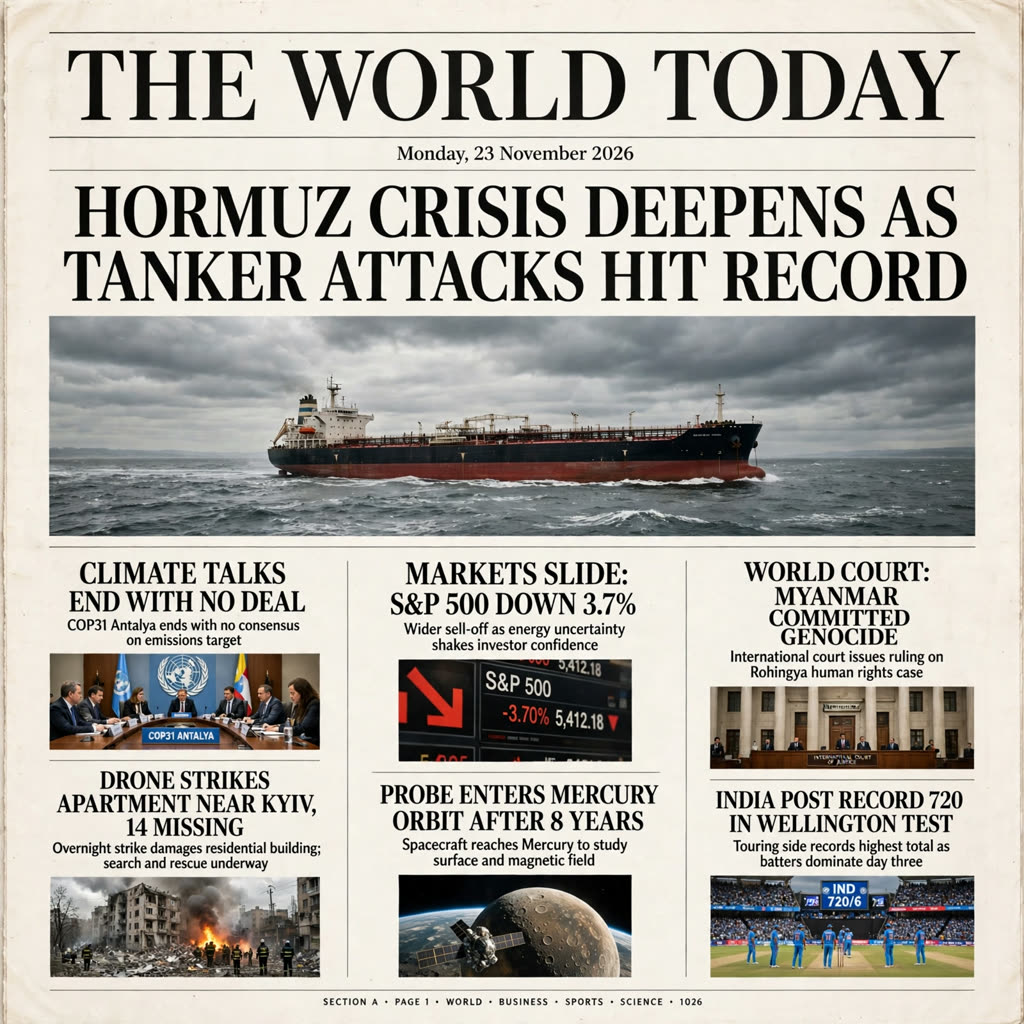
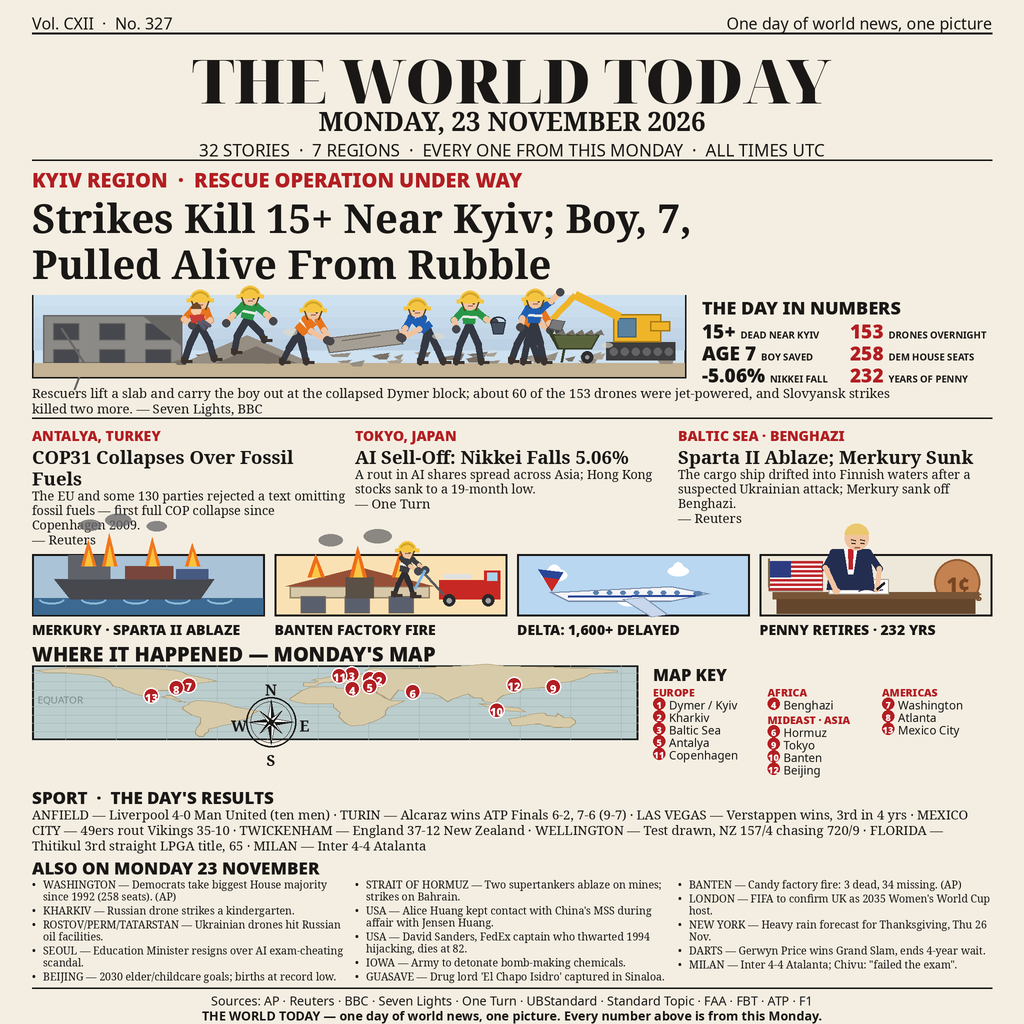
Round 2: front page newspaper with map and working figures

diff --git a/main.ts b/main.ts
@@ -1,20 +1,37 @@
-// Entry for news-image-20261123: the day's front page ships in this repo
-// as entry.png, and this program copies those exact bytes to the output
-// directory the grader reads. No network, no randomness: every run
-// writes the same file.
-
-import { copyFileSync, existsSync, mkdirSync } from "node:fs";
-import { dirname, join } from "node:path";
+// news-image-20261123 — deterministic copier for the front-page image.
+// Locates entry.png next to this module (import.meta.url), falling back to
+// MAKEFUN_BOT_DIR, and copies it byte-for-byte into the output directory.
+import { copyFileSync, existsSync, mkdirSync, statSync } from "node:fs";
+import { join } from "node:path";
 import { fileURLToPath } from "node:url";
 
-const repoDir = dirname(fileURLToPath(import.meta.url));
-const sourceImage = join(repoDir, "entry.png");
+const here = fileURLToPath(new URL(".", import.meta.url));
+const candidates = [here];
+if (process.env.MAKEFUN_BOT_DIR) candidates.push(process.env.MAKEFUN_BOT_DIR);
 
-if (!existsSync(sourceImage)) {
-  throw new Error(`entry image missing next to main.ts: ${sourceImage}`);
+let source = "";
+for (const dir of candidates) {
+  const p = join(dir, "entry.png");
+  try {
+    if (existsSync(p) && statSync(p).isFile() && statSync(p).size > 0) {
+      source = p;
+      break;
+    }
+  } catch {
+    // unreadable candidate path — try the next one
+  }
+}
+if (!source) {
+  throw new Error("entry.png not found next to main.ts or in MAKEFUN_BOT_DIR");
 }
 
-const outputDir = process.env.MAKEFUN_OUTPUT_DIR || "/output";
-mkdirSync(outputDir, { recursive: true });
+const outDir = process.env.MAKEFUN_OUTPUT_DIR ?? "/output";
+mkdirSync(outDir, { recursive: true });
+const dest = join(outDir, "entry.png");
+copyFileSync(source, dest);
 
-copyFileSync(sourceImage, join(outputDir, "entry.png"));
+const srcSize = statSync(source).size;
+const dstSize = statSync(dest).size;
+if (srcSize !== dstSize) {
+  throw new Error(`copy size mismatch: source ${srcSize} bytes, output ${dstSize} bytes`);
+}
